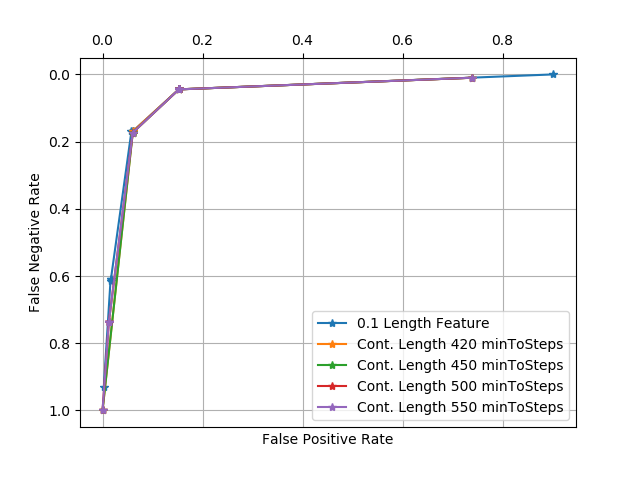
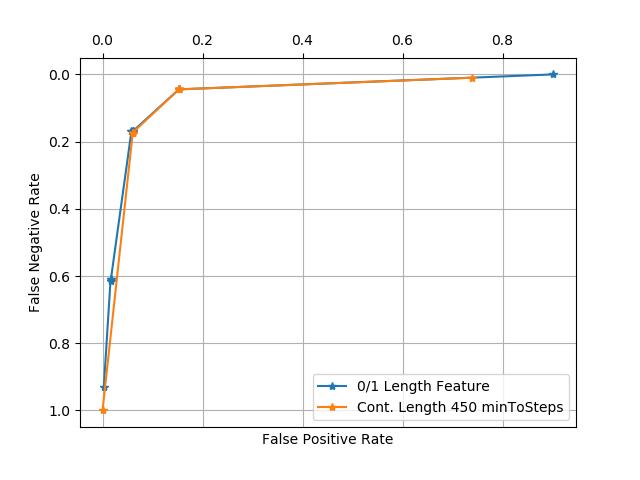
UPDATED: ROC curve.

diff --git a/Assignment3/Code/prob2_part2_roc_curves.py b/Assignment3/Code/prob2_part2_roc_curves.py
@@ -59,9 +59,9 @@ def compare_roc_curves_by_min_to_stop(xTrainRaw, yTrainRaw, xTestRaw, yTestRaw,
                             featurize=utils.Featurize)
         original_fpr_fnr.append((ev.fpr, ev.fnr))
     graphs.append(sorted(original_fpr_fnr))
-    legends.append('0.1 Length Feature')
+    legends.append('0/1 Length Feature')
 
-    for min_to_step in [420, 450, 500, 550]:
+    for min_to_step in [450]:
         cont_length_fpr_fnr = []
         for threshold in thresholds:
             ev = get_evaluation(xTrainRaw, yTrainRaw, xTestRaw, yTestRaw,
@@ -83,10 +83,6 @@ def compare_roc_curves_by_min_to_stop(xTrainRaw, yTrainRaw, xTestRaw, yTestRaw,
                           img_fname,
                           legends=legends,
                           invert_yaxis=True)
-
-    cm_md = os.path.join(report_path, fname.replace('.png', '.md'))
-    #with open(cm_md, 'w') as f:
-    #    f.write(table)
 
 
 if __name__ == '__main__':
